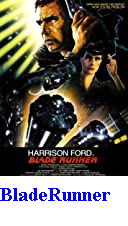
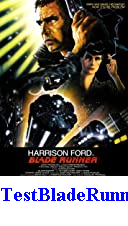
trying diferrent paths

Changed region(s): [[0.0, 0.8053, 1.0, 0.8982]]

diff --git a/src/StickerGenerator.java b/src/StickerGenerator.java
@@ -1,4 +1,7 @@
 import java.io.File;
+import java.io.FileInputStream;
+import java.io.InputStream;
+
 import javax.imageio.ImageIO;
 import java.awt.image.BufferedImage;
 import java.awt.Graphics2D;
@@ -10,7 +13,8 @@ public class StickerGenerator {
     public void createSticker() throws Exception {
 
         // get/read img
-        BufferedImage originalImg = ImageIO.read(new File("imgs/BladeRunner.jpg"));
+        InputStream inputStream = new FileInputStream(new File("imgs/BladeRunner.jpg"));
+        BufferedImage originalImg = ImageIO.read(inputStream);
 
         // create a new img with transparenci and new size
 
@@ -30,7 +34,7 @@ public class StickerGenerator {
         graphics.setFont(font);
 
         // write something on the img
-        graphics.drawString("BladeRunner", 0, newHeight - 25);
+        graphics.drawString("TestBladeRunner", 0, newHeight - 25);
 
         // write the img into a file
         ImageIO.write(newImg, "png", new File("imgOutput/outBladeRunner.png"));
